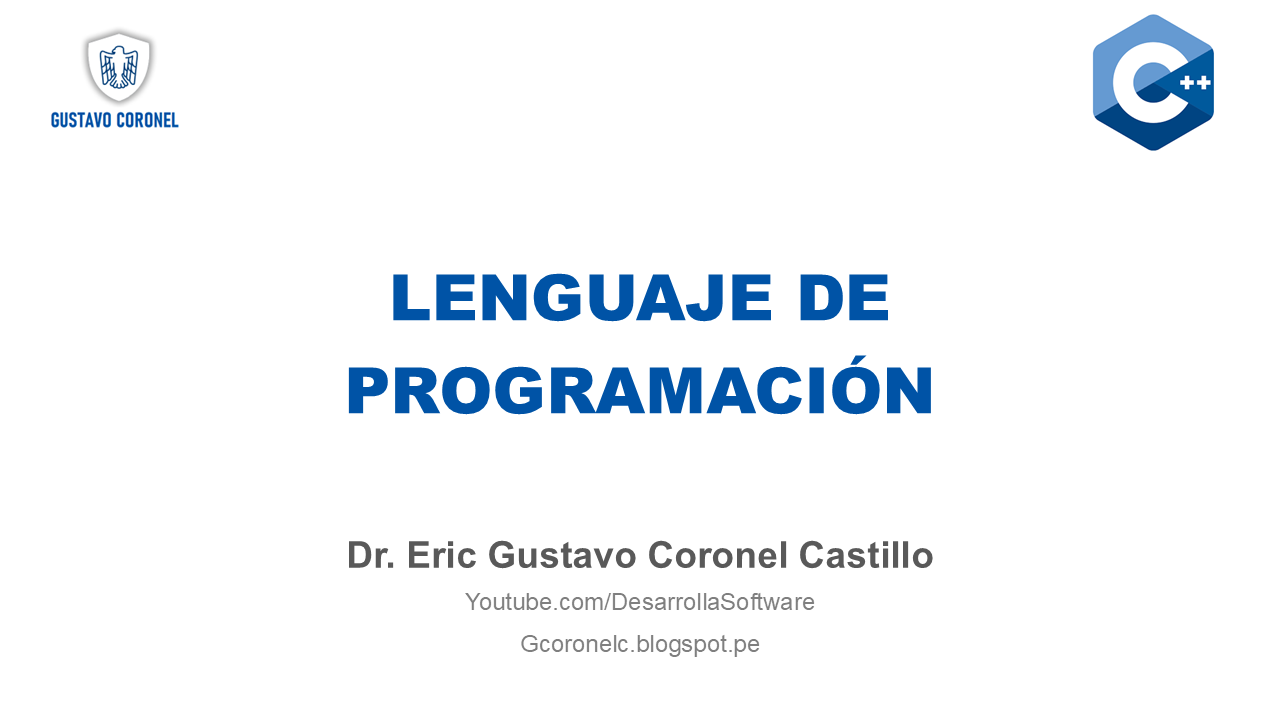
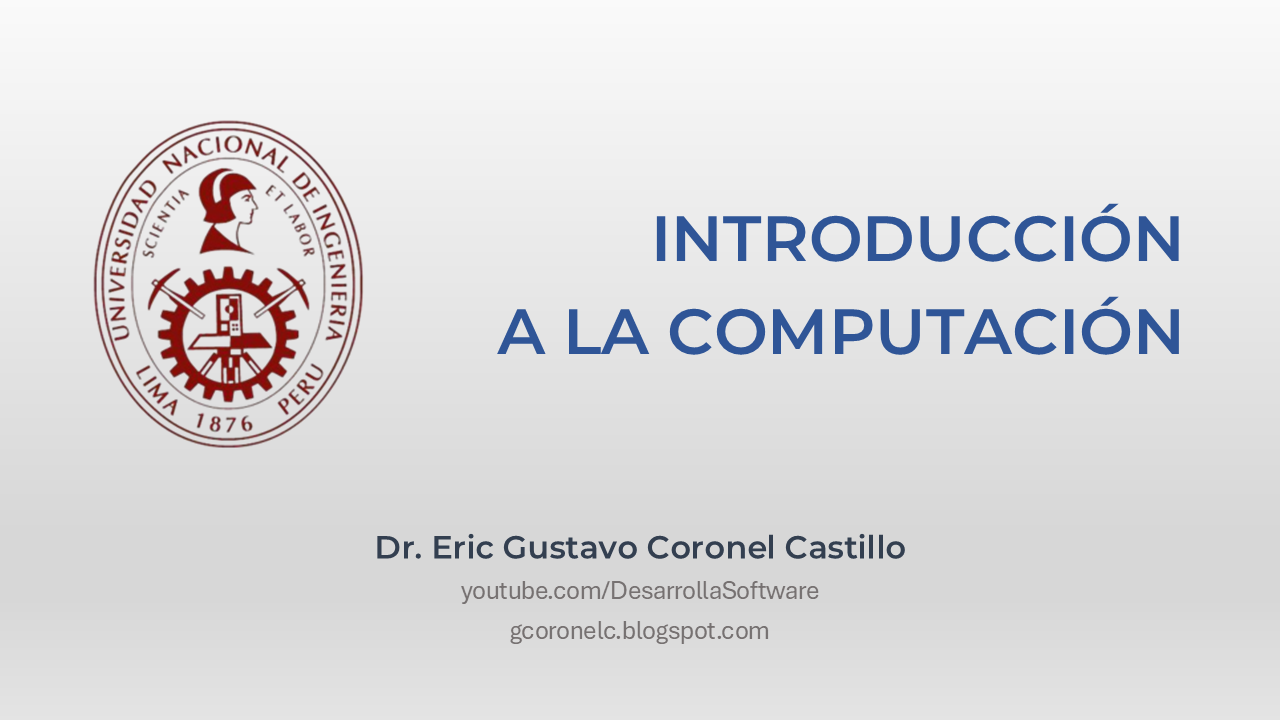
Repositorio

diff --git a/README.md b/README.md
@@ -1,11 +1,11 @@
-![LENGUAJE DE PROGRAMACIÓN](https://github.com/gcoronelc/UNI-FIIS-2025-2-SI401-V/blob/main/img/portada.png)
+![INTRODUCCIÓN A LA COMPUTACIÓN](https://github.com/gcoronelc/UNI-FIIS-2025-2-BIC01-W/blob/main/img/portada.png)
 
 # DATOS GENERALES
 
 - Lugar: UNIVERSIDAD NACIONAL DE INGENIERIA
-- Horario: Lunes de 12:00-14:00 Horas
+- Horario: Miercoles de 15-18 Horas
 - Inicio: 25-AGO-2024
-- Aula: LAB-O
+- Aula: S1-226
 - Portal web: https://www.fiis.uni.edu.pe/
 - Dirección: https://goo.gl/maps/SGR2RiuPjonfqSM87
 
